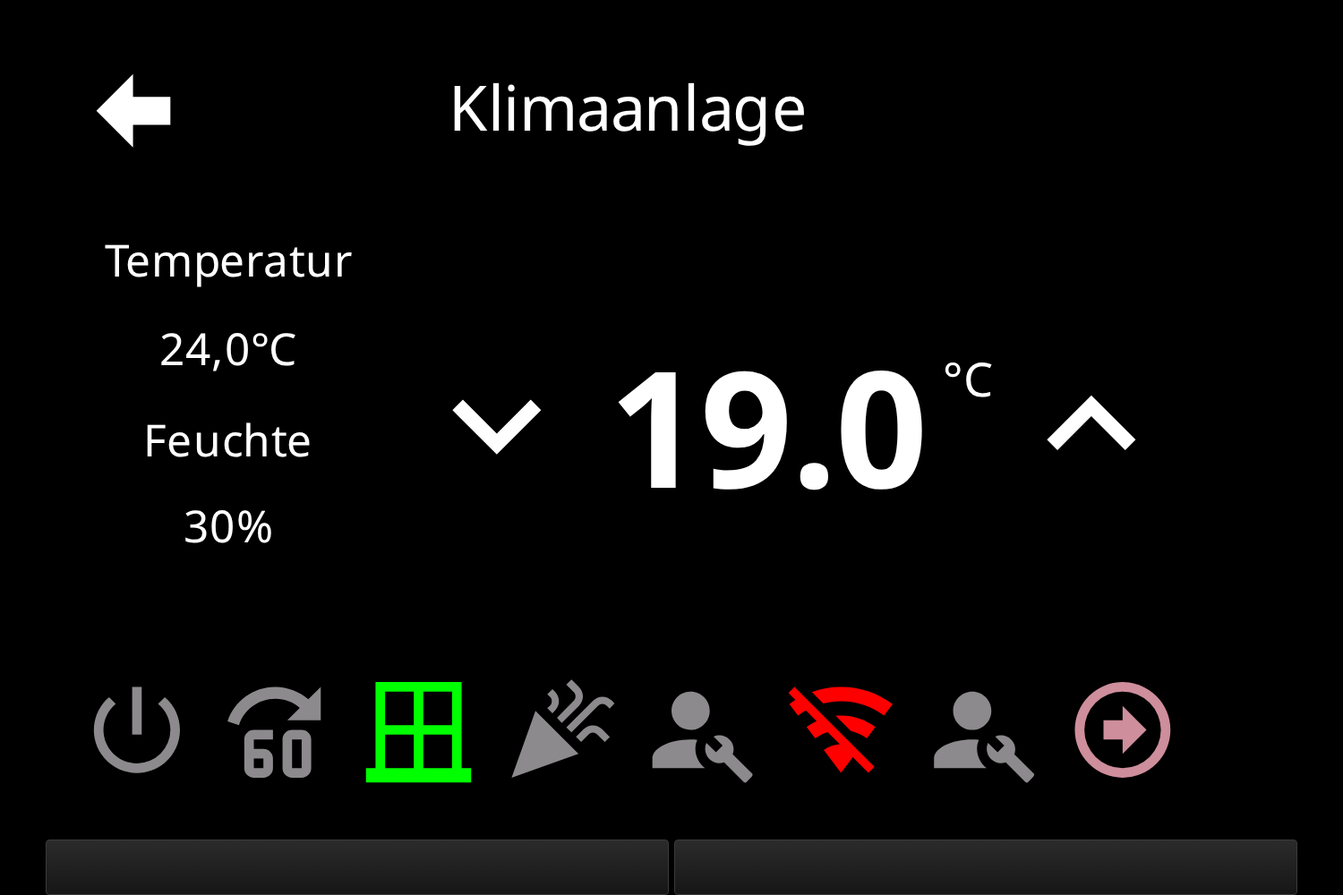
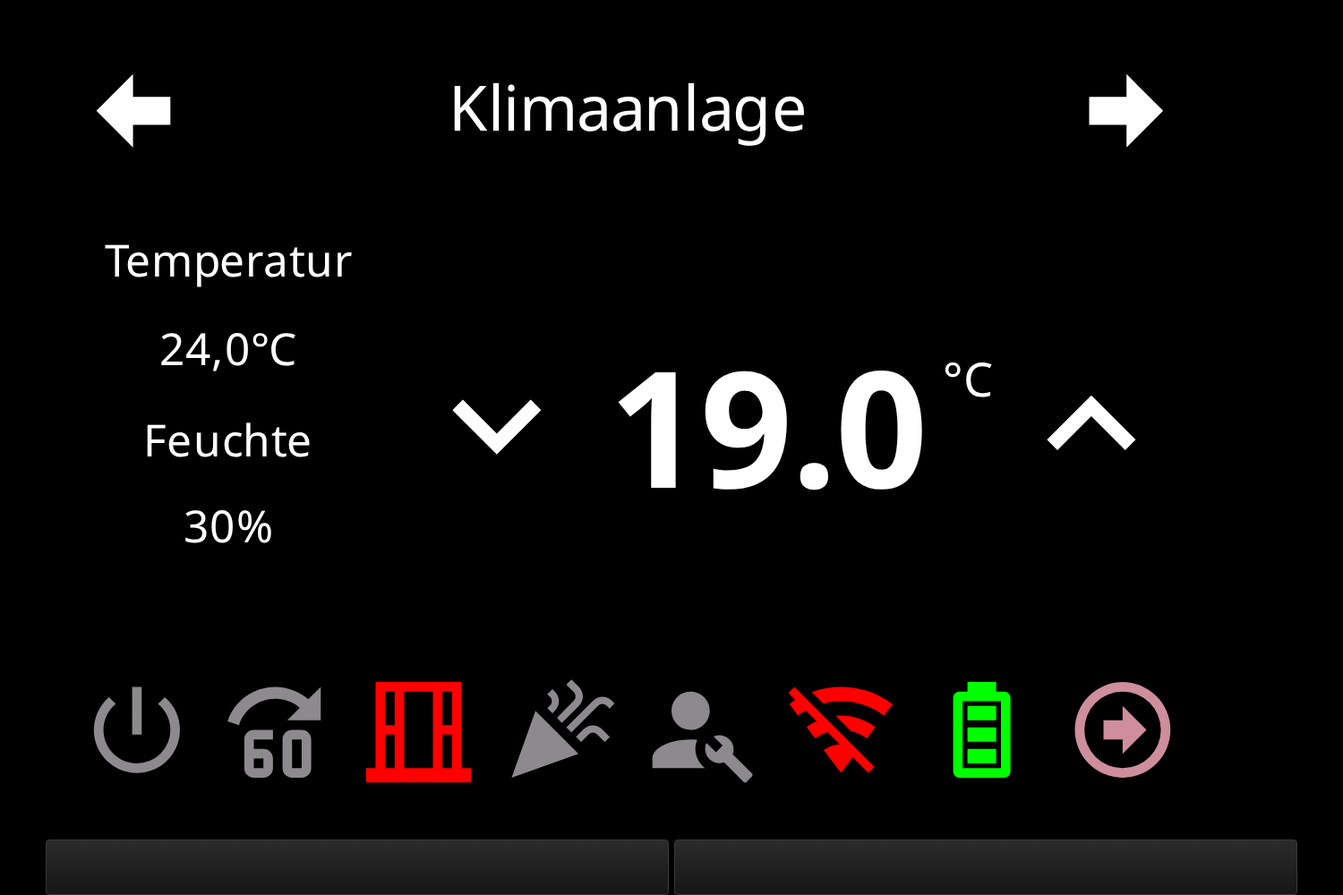
docs: follow-up to #867 – popup buttons, screensaver tap, cardThermo mode row (de/en) (#882)
* docs(pagePopup): describe the three answer buttons, drop the left-button note (de/en)

Follow-up to #867 (B29). The note that the left button writes the id with
the panel name into the local state is gone with the fix; a short remark
keeps the behaviour change for scripts that read that value.

The section on the buttons now says what each one does to the queue and
what happens afterwards: left re-queues an acknowledge message and finishes
an information message, middle finishes it on this panel only and closes,
right finishes it on all panels and shows the next one, the X finishes an
information message and brings an acknowledge message back after five
minutes. Default colours, the missing "clear all" button (a script does
that via id/priority) and the exact values of the local and global feedback
states are new as well.

* docs(Screensaver-Notify): only a dismissible message takes the tap (de/en)

Follow-up to #867 (B120). The warning "the tap is used up" described the
old behaviour where a notification that cannot be dismissed swallowed every
tap and the panel never left the screensaver. Now: a dismissible message
takes the first tap (or swipe), the next tap leads on; a message without
"Dismiss" lets the tap through, the panel changes to the main page and the
message is back as soon as the screensaver returns. Double click mode and
the state of affairs up to 2.2.0 are mentioned, the troubleshooting entry
follows.
[…]

Changed region(s): [[0.276, 0.744, 0.368, 0.899], [0.6747, 0.744, 0.7667, 0.868], [0.7973, 0.093, 0.8587, 0.155]]

diff --git a/doc/de/cardThermo.md b/doc/de/cardThermo.md
@@ -95,7 +95,12 @@ Rolle `thermostat`. Links **Temperatur** (`ACTUAL`) und – wenn ein `HUMIDITY`-
 
 ![Klimaanlage](../Pictures/PageThermo/panel-02-klimaanlage.png)
 
-Rolle `airCondition` mit einem `MODE`-Datenpunkt. Die Symbole leitet der Adapter aus `common.states` dieses Datenpunkts ab – es muss eine **Liste** der englischen Schlüsselwörter sein, die Position in der Liste ist der Wert, den die Fläche schreibt. Erkannt werden in dieser Reihenfolge: `OFF` (`power-off`), `AUTO` (`alpha-a-circle`), `COOL` (`snowflake`), `HEAT` (`fire`), `ECO` (`alpha-e-circle-outline`), `FAN_ONLY` (`fan`), `DRY` (`water-percent`). Schlüsselwörter, die in der Liste fehlen, bekommen kein Symbol; eine Zuordnung Wert → Text (`{"0": "Aus", "1": "Automatik"}`) erkennt der Adapter nicht – dann erscheint überhaupt kein Modus-Symbol. Fehlt `common.states` ganz, gilt die eingebaute Liste `OFF, AUTO, COOL, HEAT, ECO, FAN, DRY` (Index = Wert), die sechs Symbole ergibt (siehe [Fallstricke](#fallstricke)). Danach folgen die Flächen der übrigen Datenpunkte (`POWER`, `BOOST`, `MAINTAIN`, `UNREACH`, `ERROR`).
+Rolle `airCondition` mit einem `MODE`-Datenpunkt. Die Symbole leitet der Adapter aus `common.states` dieses Datenpunkts ab; die Einträge müssen die **englischen Schlüsselwörter** sein, und beide Schreibweisen von `common.states` gehen:
+
+- **Zuordnung Wert → Schlüsselwort** (`{"0": "OFF", "1": "AUTO", "2": "COOL"}`), der ioBroker-Normalfall: Die Fläche schreibt den Schlüssel, unter dem ihr Schlüsselwort steht. Stehen die Schlüsselwörter selbst als Schlüssel (`{"OFF": "Aus", "AUTO": "Automatik"}`), schreibt die Fläche das Schlüsselwort.
+- **Liste** (`["OFF", "AUTO", "COOL"]`): Die Fläche schreibt die Position in der Liste.
+
+Ist der `MODE`-Datenpunkt vom Typ `string`, schreibt die Fläche in beiden Fällen das Schlüsselwort selbst. Erkannt werden in dieser Reihenfolge: `OFF` (`power-off`), `AUTO` (`alpha-a-circle`), `COOL` (`snowflake`), `HEAT` (`fire`), `ECO` (`alpha-e-circle-outline`), `FAN_ONLY` (`fan`), `DRY` (`water-percent`). Schlüsselwörter, die in `common.states` fehlen, bekommen kein Symbol; übersetzte Texte (`{"0": "Aus", "1": "Automatik"}`) erkennt der Adapter nicht – dann erscheint überhaupt kein Modus-Symbol. Fehlt `common.states` ganz, gilt die eingebaute Liste `OFF, AUTO, COOL, HEAT, ECO, FAN_ONLY, DRY` (Position = Wert) mit allen sieben Symbolen. Nur `AUTO` hat ein eigenes Symbol für den inaktiven Zustand (das Umriss-A); die übrigen Modi zeigen inaktiv dasselbe Symbol in der Aus-Farbe. Danach folgen die Flächen der übrigen Datenpunkte (`POWER`, `BOOST`, `MAINTAIN`, `UNREACH`, `ERROR`).
 
 ### Klimaanlage: zwei Sollwerte
 
@@ -114,20 +119,20 @@ Rolle `airCondition`, deren `MODE`-Datenpunkt in `common.states` nur `OFF`, `AUT
 Die Leiste unten hat **genau acht Plätze**. Der Adapter füllt sie in dieser Reihenfolge:
 
 1. die Modus-Symbole eines `airCondition`-Channels (`OFF`, `AUTO`, `COOL`, `HEAT`, `ECO`, `FAN_ONLY`, `DRY`),
-2. `POWER`, `BOOST`, `WINDOWOPEN`, `PARTY`, `MAINTAIN`, `UNREACH`, **`MAINTAIN` ein zweites Mal**, `LOWBAT`, `ERROR`, `VACATION`, `WORKING` – jeweils nur, wenn der Datenpunkt vorhanden ist.
+2. `POWER`, `BOOST`, `WINDOWOPEN`, `PARTY`, `MAINTAIN`, `UNREACH`, `LOWBAT`, `ERROR`, `VACATION`, `WORKING` – jeweils nur, wenn der Datenpunkt vorhanden ist.
 
 Daraus folgt:
 
 - **Bis zu acht Flächen** erscheinen alle. Sind es sieben oder acht, beginnen sie am ersten Platz; bei sechs und weniger rückt der Adapter sie zur Mitte hin ein.
 - **Ab der neunten Fläche** wird der achte Platz zum **Blätterpfeil** (Pfeil nach rechts), und je Seite bleiben sieben Flächen. Der Pfeil ist nicht konfigurierbar, lässt sich nicht verschieben und blättert im Kreis.
-- Ein vollständig ausgestatteter Alias überschreitet die acht Plätze leicht: `thermostat` kann elf Flächen erzeugen, `airCondition` mit sieben Modi dreizehn. Dann ist die Leiste immer zweiseitig.
+- Ein vollständig ausgestatteter Alias überschreitet die acht Plätze leicht: `thermostat` kann zehn Flächen erzeugen, `airCondition` mit sieben Modi zwölf. Dann ist die Leiste immer zweiseitig.
 - Jede erzeugte Fläche kostet einen Platz. Wer die Reihenfolge oder die Auswahl beeinflussen will, muss Datenpunkte aus dem Alias entfernen – im Admin gibt es für diese Karte keine eigenen PageItems.
 
 ![Acht Plätze: sieben Flächen und der Blätterpfeil](../Pictures/PageThermo/panel-05-blaetterpfeil.png)
 
-Das Bild zeigt einen vollständigen `thermostat`-Alias: Ein/Aus, Boost, Fenster offen (grün, weil offen),
-Party, Wartung, nicht erreichbar, noch einmal Wartung — und auf dem achten Platz den Blätterpfeil. Die
-beiden gleichen Schraubenschlüssel sind der doppelte `MAINTAIN`-Block aus den [Fallstricken](#fallstricke).
+Das Bild zeigt einen vollständigen `thermostat`-Alias: Ein/Aus, Boost, Fenster offen (rot, weil offen),
+Party, Wartung, nicht erreichbar (rot, weil gerade nicht erreichbar), Batterie (grün, weil voll) — und auf dem achten
+Platz den Blätterpfeil; die zweite Seite zeigt die übrigen drei (`ERROR`, `VACATION`, `WORKING`).
 
 ## 7. Speichern, Panel-Zuweisung, Navigation
 
@@ -155,8 +160,6 @@ Die [Migration](Migration) macht aus einer `cardThermo`-Seite des Skripts einen 
 - **Eine leere Einheit kostet die Einheit der Ist-Temperatur.** Die große Zahl bekommt dann `common.unit` des Solltemperatur-Datenpunkts, die Zeile der Ist-Temperatur aber gar keine Einheit. Wer `°C` sehen will, trägt es ein.
 - **Die Einheit der Luftfeuchte ist fest `%`** und lässt sich nicht ändern.
 - **Das Maximum bestimmt die Einheit aller drei Zahlen.** Wird nur das Maximum leer gelassen, gelten Minimum und Schrittweite als Zehntelgrad, während das Maximum aus dem Datenpunkt kommt – eine `15` im Minimum wird so zu 1,5 °C. Entweder alle drei Felder füllen oder alle drei leer lassen.
-- **`MAINTAIN` belegt zwei Plätze.** `getPageThermo` enthält den Block zweimal: ein Channel mit `indicator.maintenance` erzeugt zwei Flächen mit demselben Schraubenschlüssel und demselben Datenpunkt, die sich nur in der Farbe des aktiven Zustands unterscheiden (bekannter Fehler). Beim Zählen der acht Plätze mitrechnen.
-- **Inaktive Modus-Symbole können falsch aussehen.** Steht `AUTO` in `common.states`, zeigen die danach erzeugten Symbole (`COOL`, `HEAT`, `ECO`, `FAN_ONLY`, `DRY`) im inaktiven Zustand das Umriss-A der Automatik statt ihres eigenen Symbols; nur das aktive Symbol ist richtig (bekannter Fehler). Ohne `AUTO` in der Liste tritt das nicht auf.
-- **Ohne `common.states` fehlt das Ventilator-Symbol.** Die eingebaute Ersatzliste enthält `FAN`, der Adapter sucht aber nach `FAN_ONLY` – es bleiben sechs Symbole (`OFF`, `AUTO`, `COOL`, `HEAT`, `ECO`, `DRY`).
+- **Bis einschließlich 2.2.0 sah die Leiste anders aus.** `MAINTAIN` belegte zwei Plätze (zwei Schraubenschlüssel), die Modus-Symbole nach `AUTO` zeigten inaktiv das Umriss-A der Automatik, ohne `common.states` fehlte der Ventilator (`FAN` statt `FAN_ONLY` in der Ersatzliste), und eine Zuordnung Wert → Schlüsselwort ergab gar keine Modusleiste – nur eine Liste. Die Version nach 2.2.0 hat alle vier Punkte behoben; beim Zählen der acht Plätze zählt `MAINTAIN` seitdem einmal.
 - **`SET`, `SET2` und `VACATION` werden über den Namen gefunden.** Bei einem `airCondition`-Channel müssen die Sollwert-Datenpunkte genau `SET` und `SET2` heißen, `VACATION` genau `VACATION` (nicht `Vacation`). Bei der Rolle `thermostat` genügt für den Sollwert die Rolle `level.temperature`.
 - **Die Leiste lässt sich nicht sortieren.** Reihenfolge, Symbole und Farben der erzeugten Flächen sind fest. Eigene Flächen und das Modus-Popup kennt diese Karte nur in einer Skript-Konfiguration; die [Migration](Migration) nimmt sie nicht mit (siehe [Abschnitt 8](#8-übernahme-aus-dem-skript)).

diff --git a/doc/en/cardThermo.md b/doc/en/cardThermo.md
@@ -95,7 +95,12 @@ Role `thermostat`. On the left **Temperature** (`ACTUAL`) and – if a `HUMIDITY
 
 ![Air conditioner](../Pictures/PageThermo/panel-02-klimaanlage.png)
 
-Role `airCondition` with a `MODE` state. The adapter derives the icons from `common.states` of that state – it has to be a **list** of the English keywords, and the position in the list is the value the slot writes. Recognised, in this order, are: `OFF` (`power-off`), `AUTO` (`alpha-a-circle`), `COOL` (`snowflake`), `HEAT` (`fire`), `ECO` (`alpha-e-circle-outline`), `FAN_ONLY` (`fan`), `DRY` (`water-percent`). Keywords missing from the list get no icon; a value → text mapping (`{"0": "off", "1": "automatic"}`) is not recognised by the adapter – then no mode icon appears at all. Without any `common.states` the built-in list `OFF, AUTO, COOL, HEAT, ECO, FAN, DRY` applies (index = value), which yields six icons (see [Pitfalls](#pitfalls)). After them follow the slots of the remaining states (`POWER`, `BOOST`, `MAINTAIN`, `UNREACH`, `ERROR`).
+Role `airCondition` with a `MODE` state. The adapter derives the icons from `common.states` of that state; the entries have to be the **English keywords**, and both shapes of `common.states` work:
+
+- **Value → keyword mapping** (`{"0": "OFF", "1": "AUTO", "2": "COOL"}`), the usual case in ioBroker: the slot writes the key under which its keyword stands. If the keywords themselves are the keys (`{"OFF": "off", "AUTO": "automatic"}`), the slot writes the keyword.
+- **List** (`["OFF", "AUTO", "COOL"]`): the slot writes the position in the list.
+
+If the `MODE` state is of type `string`, the slot writes the keyword itself in both cases. Recognised, in this order, are: `OFF` (`power-off`), `AUTO` (`alpha-a-circle`), `COOL` (`snowflake`), `HEAT` (`fire`), `ECO` (`alpha-e-circle-outline`), `FAN_ONLY` (`fan`), `DRY` (`water-percent`). Keywords missing from `common.states` get no icon; translated texts (`{"0": "off", "1": "automatic"}`) are not recognised by the adapter – then no mode icon appears at all. Without any `common.states` the built-in list `OFF, AUTO, COOL, HEAT, ECO, FAN_ONLY, DRY` applies (position = value) with all seven icons. Only `AUTO` has an icon of its own for the inactive state (the outlined A); the other modes show the same icon in the off colour when inactive. After them follow the slots of the remaining states (`POWER`, `BOOST`, `MAINTAIN`, `UNREACH`, `ERROR`).
 
 ### Air conditioner: two set points
 
@@ -114,20 +119,20 @@ Role `airCondition` whose `MODE` state lists only `OFF`, `AUTO`, `COOL` and `HEA
 The bar at the bottom has **exactly eight slots**. The adapter fills them in this order:
 
 1. the mode icons of an `airCondition` channel (`OFF`, `AUTO`, `COOL`, `HEAT`, `ECO`, `FAN_ONLY`, `DRY`),
-2. `POWER`, `BOOST`, `WINDOWOPEN`, `PARTY`, `MAINTAIN`, `UNREACH`, **`MAINTAIN` a second time**, `LOWBAT`, `ERROR`, `VACATION`, `WORKING` – each only if the state is present.
+2. `POWER`, `BOOST`, `WINDOWOPEN`, `PARTY`, `MAINTAIN`, `UNREACH`, `LOWBAT`, `ERROR`, `VACATION`, `WORKING` – each only if the state is present.
 
 It follows that:
 
 - **Up to eight slots** all appear. With seven or eight they start at the first place; with six and fewer the adapter indents them towards the middle.
 - **From the ninth slot on** the eighth place becomes the **paging arrow** (arrow to the right), and seven slots remain per page. The arrow is not configurable, cannot be moved and pages in a circle.
-- A fully equipped alias exceeds the eight places easily: `thermostat` can generate eleven slots, `airCondition` with seven modes thirteen. Then the bar always has two pages.
+- A fully equipped alias exceeds the eight places easily: `thermostat` can generate ten slots, `airCondition` with seven modes twelve. Then the bar always has two pages.
 - Every generated slot costs a place. Whoever wants to influence the order or the selection has to remove states from the alias – in the admin there are no own page items for this card.
 
 ![Eight slots: seven buttons and the paging arrow](../Pictures/PageThermo/panel-05-blaetterpfeil.png)
 
-The picture shows a complete `thermostat` alias: on/off, boost, window open (green, because it is open),
-party, maintenance, unreachable, maintenance once more — and on the eighth place the paging arrow. The
-two identical wrenches are the duplicated `MAINTAIN` block from the [Pitfalls](#pitfalls).
+The picture shows a complete `thermostat` alias: on/off, boost, window open (red, because it is open),
+party, maintenance, unreachable (red, because it is unreachable right now), battery (green, because it is full) — and on the eighth
+place the paging arrow; the second page shows the remaining three (`ERROR`, `VACATION`, `WORKING`).
 
 ## 7. Saving, panel assignment, navigation
 
@@ -155,8 +160,6 @@ The page is skipped – and thus left in the script – only when the admin entr
 - **An empty unit costs the unit of the actual temperature.** The big number then gets `common.unit` of the set temperature state, but the line of the actual temperature gets no unit at all. Whoever wants to see `°C` enters it.
 - **The unit of the humidity is fixed to `%`** and cannot be changed.
 - **The maximum determines the unit of all three numbers.** If only the maximum is left empty, minimum and step count as tenths of a degree while the maximum comes from the state – a `15` in the minimum thus becomes 1.5 °C. Either fill all three fields or leave all three empty.
-- **`MAINTAIN` occupies two places.** `getPageThermo` contains the block twice: a channel with `indicator.maintenance` generates two slots with the same wrench and the same state, differing only in the color of the active condition (known bug). Count it in when counting the eight places.
-- **Inactive mode icons can look wrong.** If `AUTO` is in `common.states`, the icons generated after it (`COOL`, `HEAT`, `ECO`, `FAN_ONLY`, `DRY`) show the outlined A of the automatic mode in their inactive condition instead of their own icon; only the active icon is correct (known bug). Without `AUTO` in the list this does not occur.
-- **Without `common.states` the fan icon is missing.** The built-in substitute list contains `FAN`, but the adapter looks for `FAN_ONLY` – six icons remain (`OFF`, `AUTO`, `COOL`, `HEAT`, `ECO`, `DRY`).
+- **Up to and including 2.2.0 the bar looked different.** `MAINTAIN` occupied two places (two wrenches), the mode icons after `AUTO` showed the outlined A of the automatic mode when inactive, without `common.states` the fan was missing (`FAN` instead of `FAN_ONLY` in the substitute list), and a value → keyword mapping produced no mode row at all – only a list did. The version after 2.2.0 fixes all four; when counting the eight places `MAINTAIN` counts once since then.
 - **`SET`, `SET2` and `VACATION` are found by name.** With an `airCondition` channel the set point states have to be named exactly `SET` and `SET2`, `VACATION` exactly `VACATION` (not `Vacation`). With the role `thermostat` the role `level.temperature` is enough for the set point.
 - **The bar cannot be sorted.** Order, icons and colors of the generated slots are fixed. Own slots and the mode popup are known to this card in a script configuration only; the [migration](Migration) does not take them along (see [section 8](#8-take-over-from-the-script)).

diff --git a/doc/de/pagePopup.md b/doc/de/pagePopup.md
@@ -108,25 +108,35 @@ Zahl steht vorn. Das Panel zeigt immer die vorderste.
 > **Höchstens zehn Popups** hält der Adapter je Panel vor; was darüber hinaus ankommt, fällt hinten weg.
 > Ein fehlerhaftes JSON wird **ohne Meldung verworfen** — kein Logeintrag, keine Reaktion am Panel.
 
-## Die Knöpfe, das X und die Rückmeldungen
+## Die drei Knöpfe, das X und die Rückmeldungen
 
-| Knopf | Wirkung |
-|---|---|
-| **links** | Blättert zur nächsten Meldung. Liegt mehr als eine an und ist das Feld leer, beschriftet der Adapter den Knopf selbst mit *Next*. |
-| **Mitte** | Nimmt die aktuelle Meldung aus der Warteschlange und kehrt zur vorherigen Seite zurück. |
-| **rechts** | Bestätigt und löscht. Bei `type: 'acknowledge'` ohne eigene Beschriftung steht dort **`ok`** — der Typ bleibt dabei `acknowledge`. |
-| **X** | Schließt die Meldung auf dem Panel, an dem gedrückt wurde. Bei `acknowledge` **und** `alwaysOn` kommt sie nach **fünf Minuten** von selbst wieder. |
+Die drei Knöpfe sind **Antwortknöpfe**: Beschriftung und Farbe kommen aus `buttonLeft`, `buttonMid`,
+`buttonRight` und `colorButton…` (ohne Farbangabe links gelb, Mitte rot, rechts grün); ein Knopf ohne
+Beschriftung erscheint nicht. Was ein Druck tut, ist fest – und bei jedem Knopf anders:
 
-Was gedrückt wurde, steht hinterher in Datenpunkten — **nicht** unter `cmd`:
+| Knopf | Warteschlange | Danach |
+|---|---|---|
+| **links** | Eine `acknowledge`-Meldung wandert **ans Ende** der Warteschlange („später noch einmal"); eine `information`-Meldung ist erledigt – bei `global` auch auf den anderen Panels. | Das Popup zeigt die nächste Meldung; ist keine mehr da, geht es zur vorherigen Seite zurück. Liegt mehr als eine Meldung an und ist das Feld leer, beschriftet der Adapter den Knopf selbst mit *Next*. |
+| **Mitte** | Die Meldung ist erledigt – aber **nur auf diesem Panel**; eine `global`-Meldung bleibt auf den anderen Panels stehen. | Das Popup schließt und geht zur vorherigen Seite zurück, auch wenn weitere Meldungen warten. |
+| **rechts** | Die Meldung ist erledigt, bei `global` auf **allen** Panels. Bei `type: 'acknowledge'` ohne eigene Beschriftung steht dort **`ok`**. | Das Popup zeigt die nächste Meldung; ist keine mehr da, geht es zur vorherigen Seite zurück. |
+| **X** | Eine `information`-Meldung ist erledigt; eine `acknowledge`-Meldung bleibt in der Warteschlange und kommt bei `alwaysOn` nach **fünf Minuten** von selbst wieder. | Schließt das Popup nur auf dem Panel, an dem gedrückt wurde. |
 
-- je Panel: `…panels.<Panel>.pagePopup.id`, `.buttonLeft`, `.buttonMid`, `.buttonRight`
-- für alle Panels zusammen: `nspanel-lovelace-ui.<Instanz>.pagePopup.id`, `.buttonLeft`, `.buttonMid`,
-  `.buttonRight`
+Einen Knopf „alle löschen" gibt es nicht – das erledigt ein Skript über die Felder oben: `id` leer lassen und
+`activate` auslösen leert die ganze Warteschlange, `priority` ≤ 0 nimmt die Meldung mit dieser `id` heraus,
+≤ −100 alle, deren `id` so beginnt (per `sendTo` genügt `{ id: 'test3', priority: -1 }`).
 
-> **Beim linken Knopf stimmt das nicht ganz:** Der Adapter schreibt dort den Wert **mit** vorangestelltem
-> Panelnamen in den **lokalen** Datenpunkt und den globalen gar nicht — bei Mitte und rechts ist es
-> umgekehrt richtig herum (lokal die reine `id`, global mit Panelnamen). Wer auf den linken Knopf reagiert,
-> prüft den Wert also besser mit „endet auf meine id".
+Was gedrückt wurde, steht hinterher in Datenpunkten – **nicht** unter `cmd`:
+
+- je Panel, immer: `…panels.<Panel>.pagePopup.id` bekommt die `id` der Meldung, dazu `.buttonLeft`,
+  `.buttonMid` oder `.buttonRight` – je nach Knopf – ebenfalls die `id`.
+- für alle Panels zusammen, **nur bei `global`**: `nspanel-lovelace-ui.<Instanz>.pagePopup.id` bekommt
+  `<Panel>.<id>` (mit dem Namen des Panels, an dem gedrückt wurde), `.buttonLeft`/`.buttonMid`/`.buttonRight`
+  die reine `id`.
+
+> Bis einschließlich 2.2.0 schrieb der **linke** Knopf den Wert mit vorangestelltem Panelnamen in den lokalen
+> Datenpunkt und den globalen gar nicht. Seit der Version danach verhält er sich wie die beiden anderen – ein
+> Skript, das bisher auf „endet auf meine id" geprüft hat, läuft weiter; eines, das den Panelnamen aus dem
+> lokalen Wert gelesen hat, muss auf den globalen Datenpunkt wechseln.
 
 ## Darstellung am Panel
 

diff --git a/doc/en/pagePopup.md b/doc/en/pagePopup.md
@@ -107,25 +107,35 @@ first. The panel always shows the front one.
 > **At most ten popups** are kept per panel; anything beyond that is dropped. Broken JSON is **discarded
 > without a word** — no log entry, no reaction on the panel.
 
-## The buttons, the X and the feedback states
+## The three buttons, the X and the feedback states
 
-| Button | Effect |
-|---|---|
-| **left** | Moves to the next message. If more than one is waiting and the field is empty, the adapter labels the button *Next* by itself. |
-| **middle** | Takes the current message out of the queue and returns to the previous page. |
-| **right** | Confirms and deletes. With `type: 'acknowledge'` and no label of its own it reads **`ok`** — the type stays `acknowledge`. |
-| **X** | Closes the message on the panel where it was pressed. With `acknowledge` **and** `alwaysOn` it comes back by itself after **five minutes**. |
+The three buttons are **answer buttons**: label and colour come from `buttonLeft`, `buttonMid`,
+`buttonRight` and `colorButton…` (without a colour: left yellow, middle red, right green); a button without a
+label is not shown. What a press does is fixed – and different for each button:
 
-What was pressed ends up in states — **not** below `cmd`:
+| Button | Queue | Afterwards |
+|---|---|---|
+| **left** | An `acknowledge` message moves **to the end** of the queue ("later again"); an `information` message is done – with `global` on the other panels as well. | The popup shows the next message; if none is left it returns to the previous page. If more than one message is waiting and the field is empty, the adapter labels the button *Next* by itself. |
+| **middle** | The message is done – but **only on this panel**; a `global` message stays on the other panels. | The popup closes and returns to the previous page, even if further messages are waiting. |
+| **right** | The message is done, with `global` on **all** panels. With `type: 'acknowledge'` and no label of its own it reads **`ok`**. | The popup shows the next message; if none is left it returns to the previous page. |
+| **X** | An `information` message is done; an `acknowledge` message stays in the queue and, with `alwaysOn`, comes back by itself after **five minutes**. | Closes the popup only on the panel where it was pressed. |
 
-- per panel: `…panels.<panel>.pagePopup.id`, `.buttonLeft`, `.buttonMid`, `.buttonRight`
-- for all panels together: `nspanel-lovelace-ui.<instance>.pagePopup.id`, `.buttonLeft`, `.buttonMid`,
-  `.buttonRight`
+There is no "clear all" button – a script does that through the fields above: leaving `id` empty and triggering
+`activate` empties the whole queue, `priority` ≤ 0 takes the message with this `id` out, ≤ −100 all whose
+`id` starts like that (via `sendTo` `{ id: 'test3', priority: -1 }` is enough).
 
-> **For the left button this is not quite true:** there the adapter writes the value **with** the panel name
-> in front into the **local** state, and does not write the global one at all — for middle and right it is
-> the other way round and correct (local the plain `id`, global with the panel name). So a script reacting
-> to the left button is better off testing for „ends with my id".
+What was pressed ends up in states – **not** below `cmd`:
+
+- per panel, always: `…panels.<panel>.pagePopup.id` gets the `id` of the message, and `.buttonLeft`,
+  `.buttonMid` or `.buttonRight` – depending on the button – the `id` as well.
+- for all panels together, **only with `global`**: `nspanel-lovelace-ui.<instance>.pagePopup.id` gets
+  `<panel>.<id>` (with the name of the panel where it was pressed), `.buttonLeft`/`.buttonMid`/`.buttonRight`
+  the plain `id`.
+
+> Up to and including 2.2.0 the **left** button wrote the value with the panel name in front into the local
+> state and did not write the global one at all. Since the version after it behaves like the other two – a
+> script that tested for "ends with my id" keeps working; one that read the panel name from the local value has
+> to switch to the global state.
 
 ## How it looks on the panel
 

diff --git a/doc/de/Screensaver-Notify.md b/doc/de/Screensaver-Notify.md
@@ -94,7 +94,7 @@ Das Panel zeigt **immer nur eine** Benachrichtigung. Sind mehrere gleichzeitig a
 
 > ⚠ **Ohne** „Quittieren“ bleibt die Meldung stehen, solange ihre Datenpunkte an sind – sie lässt sich am Panel nicht wegtippen. Für Dauerzustände (offenes Fenster) ist das gewollt, für Ereignisse (Türklingel) meist nicht.
 
-> ⚠ **Der Tipp ist verbraucht.** Solange eine Meldung auf dem Bildschirmschoner liegt, nimmt sie den Tipp für sich: mit **Quittieren** verschwindet sie, ohne **Quittieren** passiert nichts Sichtbares – und in beiden Fällen wechselt das Panel **nicht** zur Hauptseite. Nach dem Quittieren führt der nächste Tipp wieder normal weiter; bei einer nicht quittierbaren Meldung bleibt der Weg über den Tipp versperrt, solange ihre Datenpunkte an sind.
+> ⚠ **Nur eine quittierbare Meldung nimmt den Tipp.** Liegt eine Meldung mit **Quittieren** auf dem Bildschirmschoner, ist der erste Tipp – oder Wisch – für sie verbraucht: Sie verschwindet, das Panel bleibt im Bildschirmschoner, erst der nächste Tipp führt zur Hauptseite. Eine Meldung **ohne** Quittieren lässt den Tipp durch: Das Panel wechselt wie gewohnt zur Hauptseite, die Meldung bleibt stehen und liegt wieder auf dem Bildschirmschoner, sobald er zurückkommt. Bei eingeschaltetem Doppelklick (`cmd.screenSaver.doubleClick`) zählt jeweils der Doppeltipp. Bis einschließlich 2.2.0 nahm auch eine nicht quittierbare Meldung jeden Tipp – aus dem Bildschirmschoner kam man nur über ein Element mit eigener Aktion, die Hardware-Tasten oder `cmd.goToNavigationPoint`.
 
 ## 6. Summer
 
@@ -144,7 +144,7 @@ Auf dem Panel entsteht daraus eine Überschriftzeile (Symbol + Präfix + Wert/Te
 - **Die Meldung erscheint nie:** Alle Datenpunkte müssen gleichzeitig „an“ sein. Gibt es einen der Datenpunkte nicht, zählt er als „aus“ – bei mehreren Datenpunkten verschwindet die Meldung damit still. Ist **nur ein** Datenpunkt eingetragen und fehlt dieser, verwirft der Adapter die ganze Benachrichtigung und schreibt einen Fehler ins Log.
 - **Es erscheint eine andere Meldung als erwartet:** Es ist immer nur eine zu sehen – die mit der kleinsten Prioritätszahl. Leere Priorität heißt 99.
 - **Die Meldung geht nicht weg:** Ohne **Quittieren** bleibt sie, bis ihre Datenpunkte ausgehen.
-- **Ein Tipp auf den Bildschirmschoner tut nichts:** Es liegt eine Benachrichtigung darüber – der Tipp wird für sie verbraucht, siehe [Quittieren](#5-quittieren-und-gruppen-id).
+- **Ein Tipp auf den Bildschirmschoner tut nichts:** Es lag eine quittierbare Benachrichtigung darüber – der erste Tipp hat sie quittiert, der nächste führt weiter. Bleibt das Panel auch bei einer **nicht** quittierbaren Meldung im Bildschirmschoner, läuft noch 2.2.0 oder älter; siehe [Quittieren](#5-quittieren-und-gruppen-id).
 - **Eine gelöschte Benachrichtigung taucht wieder auf:** Nicht gelöscht, nur nicht mehr angehakt. Ein gelöschter Bildschirmschoner nimmt seine Benachrichtigungen nicht mit – sie stehen weiter in der gemeinsamen Liste.
 - **Quittieren wirkt auf mehr als gedacht:** Benachrichtigungen mit derselben **Gruppen-ID** werden gemeinsam ausgeblendet, auch auf anderen Panels.
 - **Der Summer bleibt still:** Nachtmodus, `cmd.isBuzzerAllowed` aus – oder die angezeigte Meldung hat gar nicht gewechselt.

diff --git a/doc/en/Screensaver-Notify.md b/doc/en/Screensaver-Notify.md
@@ -94,7 +94,7 @@ The panel shows **one** notification at a time. If several are active at once, t
 
 > ⚠ **Without** "Dismiss" the message stays as long as its states are on – it cannot be tapped away at the panel. For lasting states (an open window) that is intended, for events (a doorbell) usually not.
 
-> ⚠ **The tap is used up.** While a message lies on the screensaver, it takes the tap for itself: with **Dismiss** it disappears, without **Dismiss** nothing visible happens – and in both cases the panel does **not** change to the main page. After dismissing, the next tap leads on normally again; with a message that cannot be dismissed the way through the tap stays blocked as long as its states are on.
+> ⚠ **Only a dismissible message takes the tap.** While a message with **Dismiss** lies on the screensaver, the first tap – or swipe – is used up for it: it disappears, the panel stays in the screensaver, only the next tap leads to the main page. A message **without** Dismiss lets the tap through: the panel changes to the main page as usual, the message stays and lies on the screensaver again as soon as it returns. With double click switched on (`cmd.screenSaver.doubleClick`) the double tap counts each time. Up to and including 2.2.0 a message that could not be dismissed took every tap as well – the only ways out of the screensaver were an item with an action of its own, the hardware buttons or `cmd.goToNavigationPoint`.
 
 ## 6. Buzzer
 
@@ -144,7 +144,7 @@ On the panel this becomes a headline line (icon + prefix + value/text + unit) an
 - **The message never appears:** All states must be "on" at the same time. A state that does not exist counts as "off" – with several states the message silently disappears. If **only one** state is entered and it is missing, the adapter drops the whole notification and logs an error.
 - **A different message than expected appears:** Only one is ever visible – the one with the smallest priority number. An empty priority means 99.
 - **The message does not go away:** Without **Dismiss** it stays until its states go off.
-- **A tap on the screensaver does nothing:** A notification lies over it – the tap is used up for it, see [Dismissing](#5-dismissing-and-the-group-id).
+- **A tap on the screensaver does nothing:** A dismissible notification lay over it – the first tap dismissed it, the next one leads on. If the panel stays in the screensaver with a message that **cannot** be dismissed as well, it is still running 2.2.0 or older; see [Dismissing](#5-dismissing-and-the-group-id).
 - **A deleted notification turns up again:** Not deleted, only no longer ticked. A deleted screensaver does not take its notifications with it – they stay in the common list.
 - **Dismissing affects more than expected:** Notifications with the same **Group ID** are hidden together, on other panels as well.
 - **The buzzer stays silent:** Night mode, `cmd.isBuzzerAllowed` off – or the displayed message did not change at all.

diff --git a/doc/de/cardThermo2.md b/doc/de/cardThermo2.md
@@ -150,7 +150,7 @@ Klick auf den **Modustext** unter dem Stellring.
 
 <img alt="Dialog Modusanzeige mit der Liste der Modustexte" src="../Pictures/PageThermo2/admin-08-modus.png" width="100%"/>
 
-**Modustexte, ein Eintrag je Zeile (Zeile = Wert des Datenpunkts, beginnend bei 0).** Der Hinweis darunter nennt die Rangfolge: *„Leer = common.states des Modus-Datenpunkts, sonst die Liste des Adapters: OFF, AUTO, COOL, HEAT, ECO, FAN, DRY"*. Die Texte werden übersetzt, soweit der Adapter sie kennt.
+**Modustexte, ein Eintrag je Zeile (Zeile = Wert des Datenpunkts, beginnend bei 0).** Der Hinweis darunter nennt die Rangfolge: *„Leer = common.states des Modus-Datenpunkts, sonst die Liste des Adapters: OFF, AUTO, COOL, HEAT, ECO, FAN_ONLY, DRY"*. Die Texte werden übersetzt, soweit der Adapter sie kennt.
 
 Den Text liest der Adapter aus `MODE`; fehlt der Datenpunkt, tritt `MODESET` an seine Stelle. Beim Weg über **Einzelne Datenpunkte** gilt der dort angegebene Modus-Datenpunkt, und dieselbe Liste bestimmt den Text; ein Wert ungleich 0 bedeutet dort „ein".
 

diff --git a/doc/en/cardThermo2.md b/doc/en/cardThermo2.md
@@ -150,7 +150,7 @@ Click the **mode text** below the ring.
 
 <img alt="Dialog Mode display with the list of mode texts" src="../Pictures/PageThermo2/admin-08-modus.png" width="100%"/>
 
-**Mode texts, one per line (line = value of the data point, starting at 0).** The hint below it names the precedence: *"Empty = common.states of the mode data point, otherwise the list of the adapter: OFF, AUTO, COOL, HEAT, ECO, FAN, DRY"*. The texts are translated as far as the adapter knows them.
+**Mode texts, one per line (line = value of the data point, starting at 0).** The hint below it names the precedence: *"Empty = common.states of the mode data point, otherwise the list of the adapter: OFF, AUTO, COOL, HEAT, ECO, FAN_ONLY, DRY"*. The texts are translated as far as the adapter knows them.
 
 The adapter reads the text from `MODE`; if that state is missing, `MODESET` takes its place. On the **Single data points** path the mode data point given there applies, and the same list determines the text; a value other than 0 means "on" there.
 
